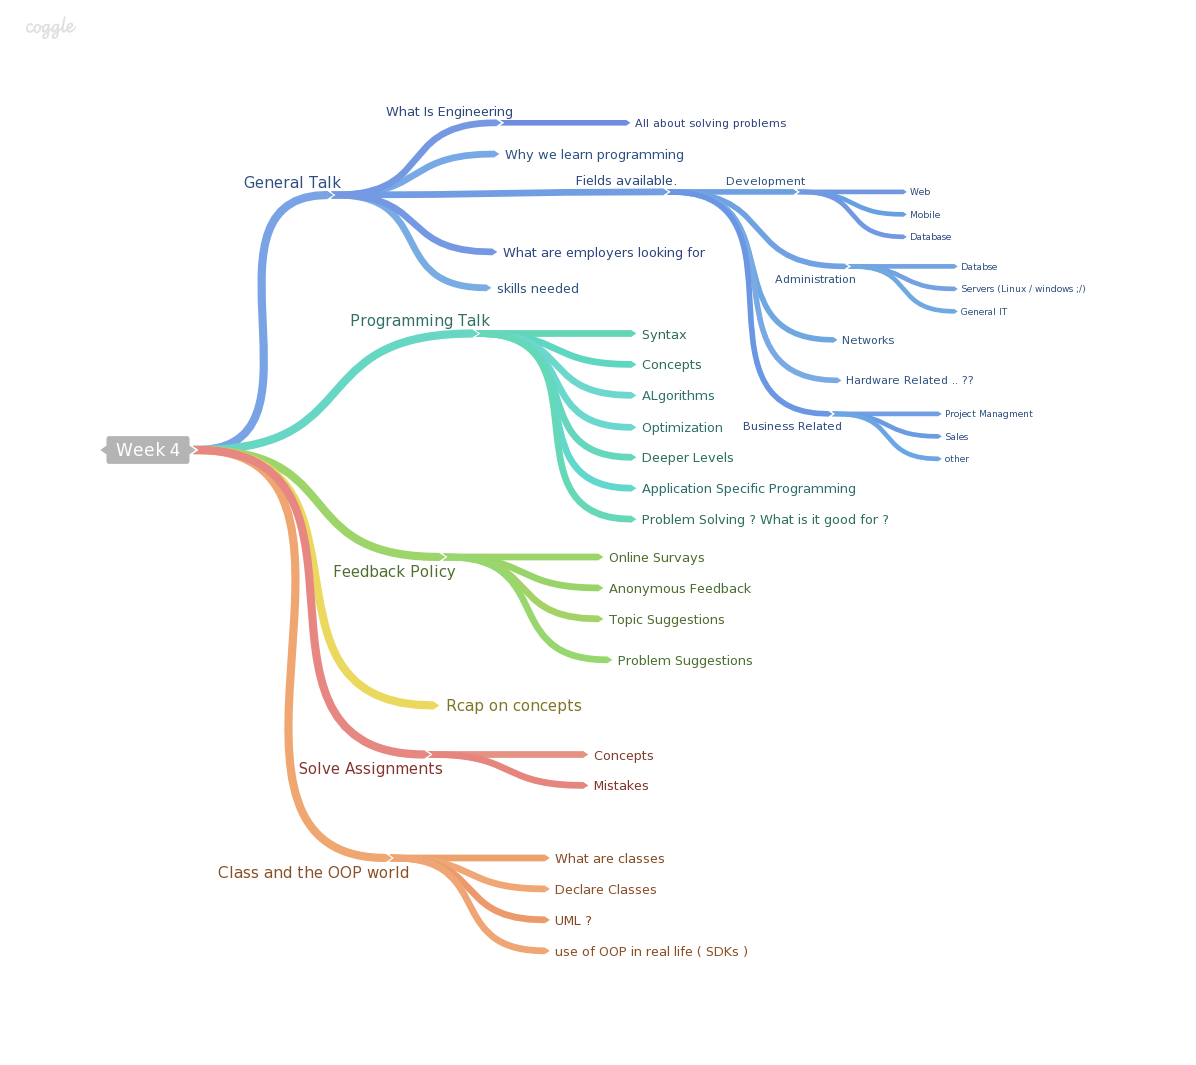
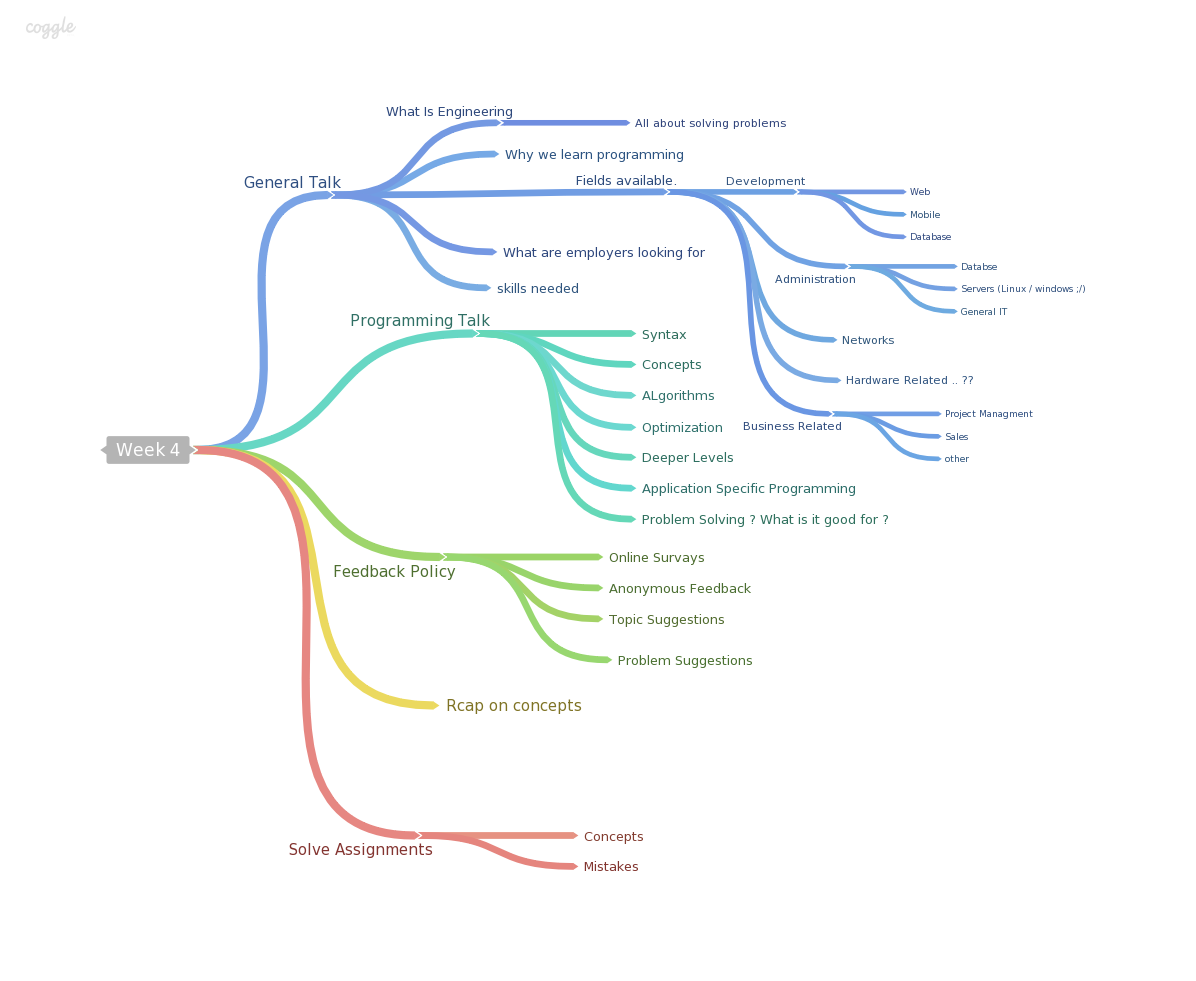
week 5 materials added

Changed region(s): [[0.0619, 0.0917, 0.8662, 0.9174], [0.8662, 0.2446, 0.8972, 0.3058], [0.5878, 0.0917, 0.6497, 0.1223]]

diff --git a/week5/assignments.md b/week5/assignments.md
@@ -1,13 +1,26 @@
+#Assignments Week4
+
 ## Classifiy the world 
-- Create 4 classes related to :
+- Create 4 classes related to : 
 	- Cars.
 	- Devices.
 	- Animals.
 	- Personal Topic.
 
-- Write the code creating the classes.
+- Write the code creating the classes , atleast 2 fields and two methods. 
 - Chart the UML representation of the classes. **submit them as pdf / images ,no links will be accepted**.
 - **Hint** You can use [LucidChart][3] to create your charts online for free.
 
 
+
+##Mr Problem Solver 2
+- [Login to ProjectEuler][1]
+- [Solve the Second problem][2] using C#
+- you can choose to submit any other problm from any other problem solving site. **email confirmation required**.
+- submit the code used to solve the problem.
+- submit a screen shot of your page with the problem solved.
+
+
+[1]:http://projecteuler.net
+[2]:http://projecteuler.net/problem=2
 [3]:https://www.lucidchart.com

diff --git a/week5/README.md b/week5/README.md
@@ -1,0 +1,32 @@
+#Week 4
+
+#### [Please Submit Feedback][2]
+
+
+##Classes and OOP World
+- What are classes
+- Why use classes
+- Declare Classes
+- Class members (fields , properties , methods)
+- UML ?
+- Use of oop in real life (SDKs ?)
+
+##Visual Studio
+- Project Format
+- Code Location
+- Debugging
+
+##CMD Tricks
+
+##Compilation Outputs
+
+##Quiz
+
+
+##Things mentioned but not fully explained
+- Properties.
+
+
+![alt text](https://raw.github.com/TheNightPhoenix/AdvancedProgramming/master/week5/map.png "Class Mind Map")
+
+[2]:https://docs.google.com/forms/d/1nX7W8L1JD-mx3xwW8RSsednLUx5hTSjZvMMVmXmguJk/viewform

diff --git a/week4/README.md b/week4/README.md
@@ -10,15 +10,6 @@
 - Concepts. 
 - Mistakes.
 
-##Classes and OOP World
-- What are classes
-- UML ?
-- Use of oop in real life (SDKs ?)
-
-
-##Things mentioned but not fully explained
-- Properties.
-
 
 ![alt text](https://raw.github.com/TheNightPhoenix/AdvancedProgramming/master/week4/map.png "Class Mind Map")
 
